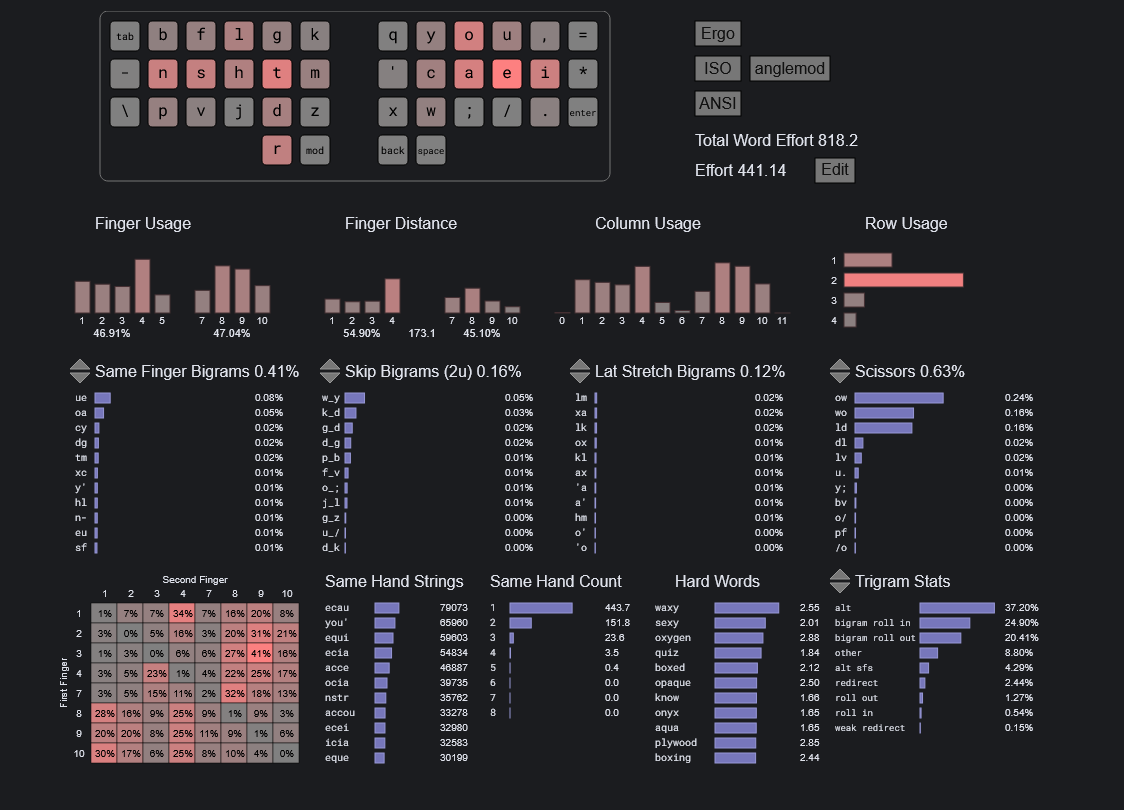
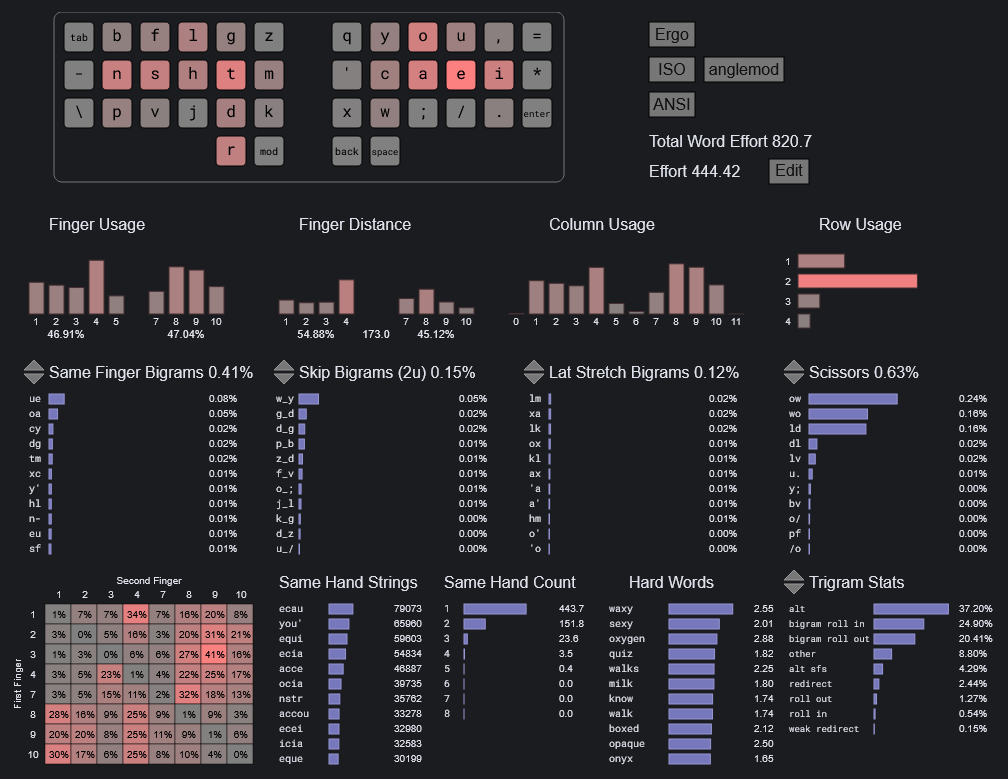
Fixes to docs to match prev.

Changed region(s): [[0.0308, 0.0, 0.9841, 0.9859], [0.9534, 0.4929, 0.9841, 0.7086]]

diff --git a/README.md b/README.md
@@ -3,9 +3,9 @@
 ## Custom Layout reference
 
 ```text
-B F L D K  Q C O U .
-N S H T M  ' Y A E I
-P V J G Z  X W ; ? ,
+B F L G Z  Q Y O U .
+N S H T M  ' C A E I
+P V J D K  X W ; ? ,
      \t R \s _
 ```
 
